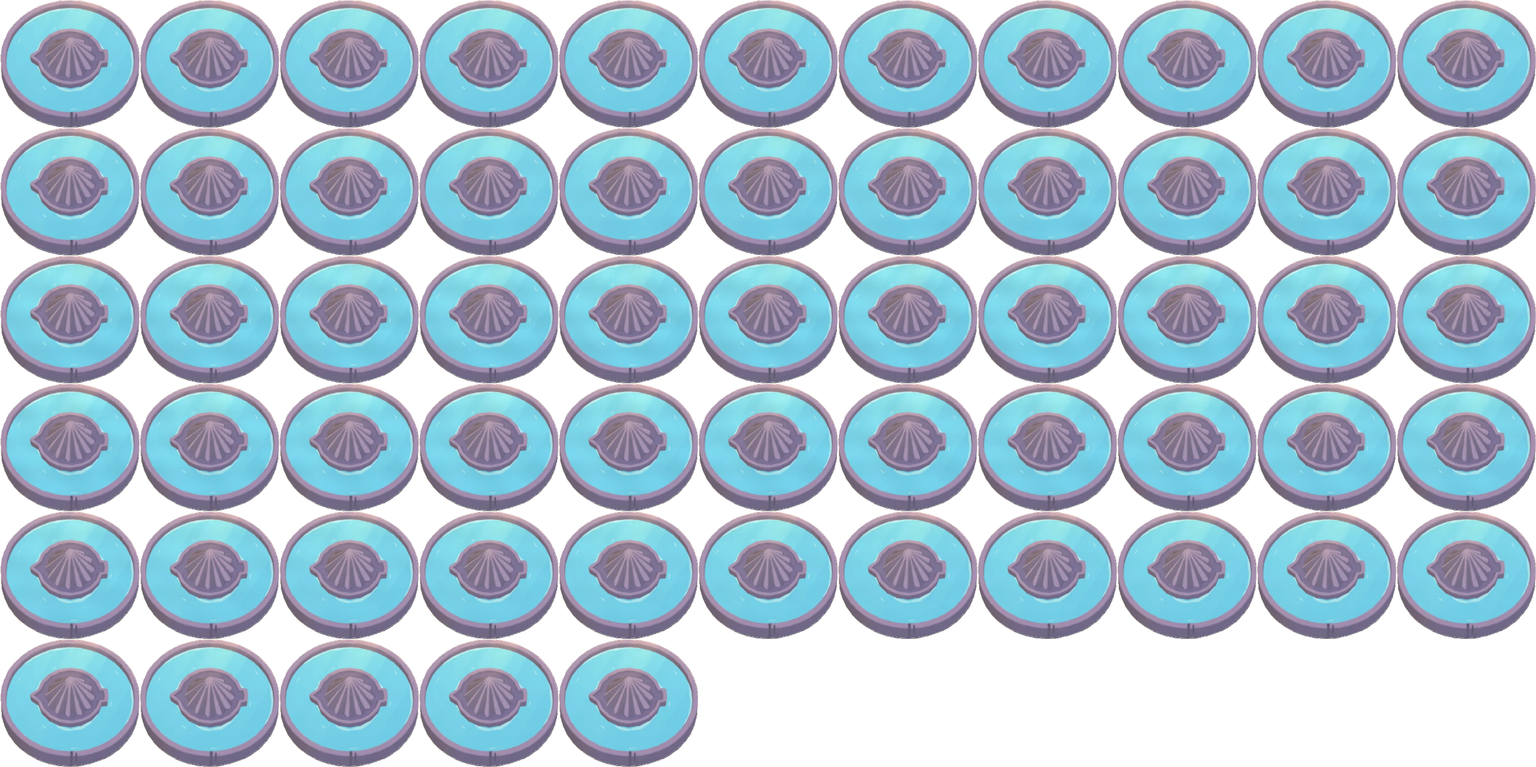
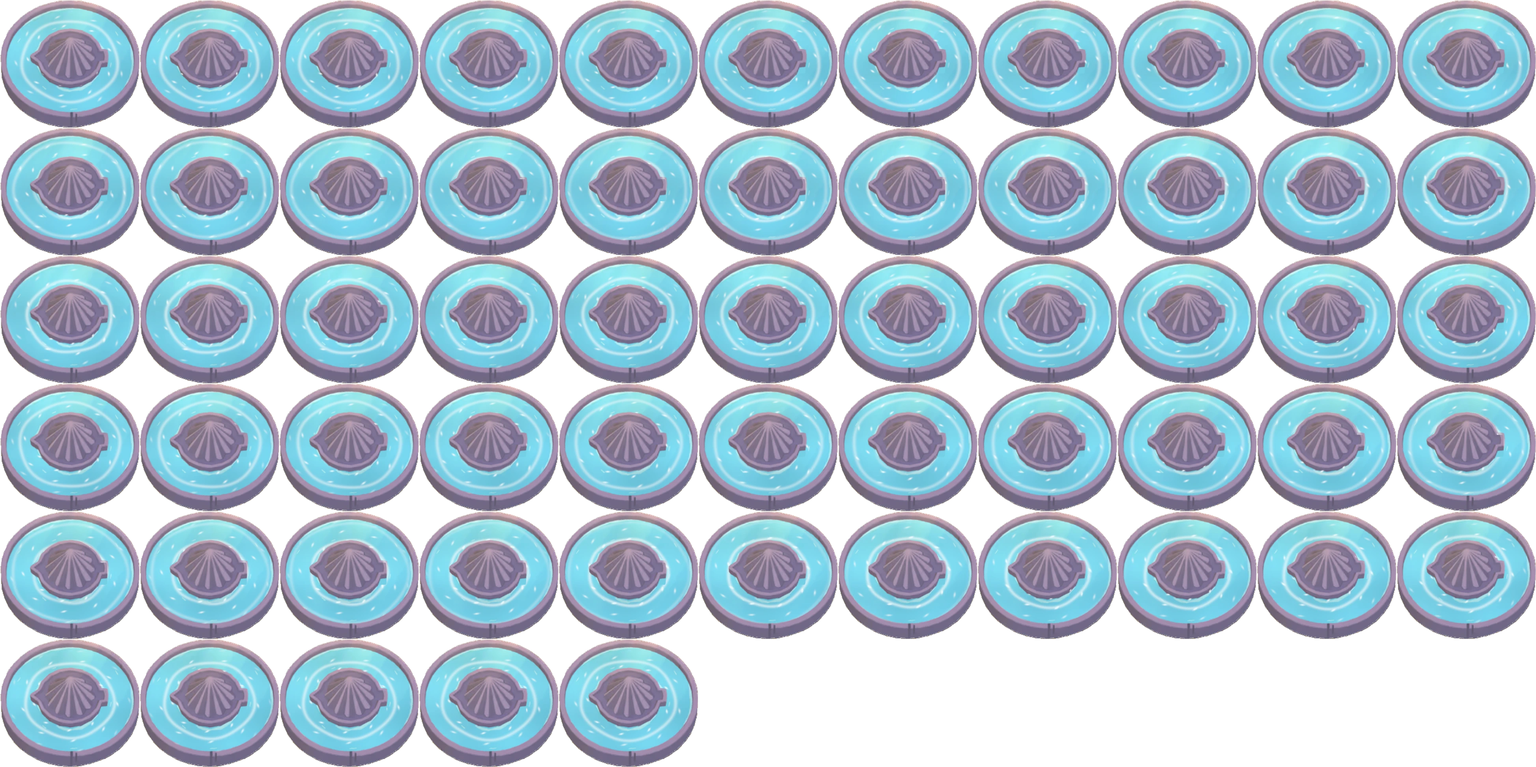
environ2 animation scripts: cartoon water ripples (rings, glints, light drift); render one group at a time
The fountain's frame sheet for the 2D renderer re-rendered with them.

diff --git a/art/reconstruction/environ2/blender/animate.py b/art/reconstruction/environ2/blender/animate.py
@@ -3,7 +3,8 @@ Each motion has the form  A * (sin(2 pi t / T + phase) - sin(phase))  : zero at 
  * the bunting's pennants swing on the rope, each a little behind the one before (a wave running along the rope); the rope sways
  * the banners' cloths ripple, more toward their free edge
  * the hex canopies sway gently on their legs; the round tree's leaf clumps breathe
- * the fountain's water shimmers (drifting bands of slightly brighter water)
+ * the fountain's water ripples: rings spreading from the juicer, white glints drifting across, a moving light pattern
+   (the only motion present at rest: the water is never still)
 The small fill pieces that complete each outline are attached to the part they belong to (the nearest one), so they move with it.
 Blender -b --python animate.py -- <plaza.blend> <out_dir> [frames]"""
 import sys, os, math
@@ -102,7 +103,8 @@ for i, (n, o) in enumerate(sorted((n, o) for n, o in objs.items() if n.startswit
         drive(o, 'scale', ax, wave(0.035, 0.45 * i))
     drive(o, 'location', 0, wave(0.05, 0.45 * i + 1.0))
 
-# ---- water: its painted surface shimmers (bands of slightly brighter water drifting across it) --------------------------------
+# ---- water: cartoon ripples over the painted water -- rings spreading out from the juicer, white glints drifting across, and a
+# moving light pattern. They loop (every phase advances by whole turns per loop) and sit on top of the painted surface.
 water = objs.get('FOUNTAIN_water')
 if water:
     m = water.data.materials[0].copy()
@@ -111,8 +113,13 @@ if water:
     tex = next(n for n in nt.nodes if n.type == 'TEX_IMAGE')
     em = next(n for n in nt.nodes if n.type == 'EMISSION')
     geo = nt.nodes.new('ShaderNodeNewGeometry')
-    sep = nt.nodes.new('ShaderNodeSeparateXYZ')
-    nt.links.new(geo.outputs['Position'], sep.inputs['Vector'])
+    V = world_verts(water)
+    centre = sum(V, Vector()) / len(V)
+    radius = max((v - centre).length for v in V)
+    rel = nt.nodes.new('ShaderNodeVectorMath')
+    rel.operation = 'SUBTRACT'
+    rel.inputs[1].default_value = tuple(centre)
+    nt.links.new(geo.outputs['Position'], rel.inputs[0])
 
     def val(expr):
         n = nt.nodes.new('ShaderNodeValue')
@@ -121,31 +128,57 @@ if water:
         d.driver.expression = expr
         return n.outputs[0]
 
-    def mth(op, a, b):
+    def mth(op, a, b=0.0, c=None):
         n = nt.nodes.new('ShaderNodeMath')
         n.operation = op
-        for i, x in enumerate((a, b)):
+        for i, x in enumerate((a, b) if c is None else (a, b, c)):
             if isinstance(x, (int, float)):
                 n.inputs[i].default_value = x
             else:
                 nt.links.new(x, n.inputs[i])
         return n.outputs[0]
-    amp = val(f"sin(pi * frame / {T}) ** 2")                       # 0 at the loop's start and end: the rest frame is exact
-    t = val(f"2 * pi * frame / {T}")
-    band = mth('SINE', mth('ADD', mth('ADD', mth('MULTIPLY', sep.outputs['X'], 1.3), mth('MULTIPLY', sep.outputs['Y'], 0.9)),
-                           mth('MULTIPLY', t, 2.0)), 0.0)
-    band2 = mth('SINE', mth('SUBTRACT', mth('MULTIPLY', sep.outputs['Y'], 2.1), t), 0.0)
-    gain = mth('ADD', mth('MULTIPLY', mth('MULTIPLY', mth('ADD', band, band2), amp), 0.045), 1.0)
-    mul = nt.nodes.new('ShaderNodeMix')
-    mul.data_type = 'RGBA'
-    mul.blend_type = 'MULTIPLY'
-    mul.inputs['Factor'].default_value = 1.0
-    nt.links.new(tex.outputs['Color'], mul.inputs['A'])
+    sep = nt.nodes.new('ShaderNodeSeparateXYZ')
+    nt.links.new(rel.outputs['Vector'], sep.inputs['Vector'])
+    dist = nt.nodes.new('ShaderNodeVectorMath')
+    dist.operation = 'LENGTH'
+    nt.links.new(rel.outputs['Vector'], dist.inputs[0])
+    r = dist.outputs['Value']
+    turn = val(f"2 * pi * frame / {T}")
+    # rings: thin bright bands travelling outward (3 rings across the basin, 2 passes per loop), wobbling a little
+    wob = mth('MULTIPLY', mth('SINE', mth('ADD', mth('MULTIPLY', mth('ARCTAN2', sep.outputs['Y'], sep.outputs['X']), 5.0),
+                                             mth('MULTIPLY', turn, 1.0))), 0.25)
+    ring_arg = mth('SUBTRACT', mth('ADD', mth('MULTIPLY', r, 2 * math.pi * 3 / radius), wob), mth('MULTIPLY', turn, 2.0))
+    ring = mth('POWER', mth('MULTIPLY', mth('ADD', mth('SINE', ring_arg), 1.0), 0.5), 14.0)        # sharp bands
+    inner = mth('SMOOTH_MAX', mth('SUBTRACT', r, radius * 0.48), 0.0, 0.3)                       # rings start outside the juicer
+    ring = mth('MULTIPLY', ring, mth('MINIMUM', mth('MULTIPLY', inner, 1.5), 1.0))
+    edge = mth('SUBTRACT', 1.0, mth('POWER', mth('DIVIDE', r, radius), 6.0))                     # fade out at the rim
+    ring = mth('MULTIPLY', mth('MULTIPLY', ring, mth('MAXIMUM', edge, 0.0)), 0.55)
+    # glints: small bright dashes drifting round the basin (a wave texture in angle and radius)
+    ang = mth('ARCTAN2', sep.outputs['Y'], sep.outputs['X'])
+    g_arg = mth('ADD', mth('ADD', mth('MULTIPLY', ang, 9.0), mth('MULTIPLY', r, 2.3)), turn)
+    g2 = mth('SINE', mth('SUBTRACT', mth('MULTIPLY', r, 3.1), mth('MULTIPLY', turn, 3.0)))
+    glint = mth('POWER', mth('MAXIMUM', mth('MULTIPLY', mth('SINE', g_arg), g2), 0.0), 18.0)
+    glint = mth('MULTIPLY', mth('MULTIPLY', glint, mth('MAXIMUM', edge, 0.0)), 0.9)
+    # light pattern: slow broad bright/dark drift
+    caus = mth('MULTIPLY', mth('ADD', mth('SINE', mth('ADD', mth('MULTIPLY', sep.outputs['X'], 0.9), turn)),
+                               mth('SINE', mth('SUBTRACT', mth('MULTIPLY', sep.outputs['Y'], 1.1), turn))), 0.06)
+    white = mth('MINIMUM', mth('ADD', ring, glint), 0.8)
+    lit = nt.nodes.new('ShaderNodeMix')
+    lit.data_type = 'RGBA'
+    lit.blend_type = 'MULTIPLY'
+    lit.inputs['Factor'].default_value = 1.0
+    nt.links.new(tex.outputs['Color'], lit.inputs['A'])
     gcol = nt.nodes.new('ShaderNodeCombineColor')
     for ch in ('Red', 'Green', 'Blue'):
-        nt.links.new(gain, gcol.inputs[ch])
-    nt.links.new(gcol.outputs['Color'], mul.inputs['B'])
-    nt.links.new(mul.outputs['Result'], em.inputs['Color'])
+        nt.links.new(mth('ADD', caus, 1.0), gcol.inputs[ch])
+    nt.links.new(gcol.outputs['Color'], lit.inputs['B'])
+    mix = nt.nodes.new('ShaderNodeMix')
+    mix.data_type = 'RGBA'
+    mix.blend_type = 'MIX'
+    nt.links.new(white, mix.inputs['Factor'])
+    nt.links.new(lit.outputs['Result'], mix.inputs['A'])
+    mix.inputs['B'].default_value = (0.92, 1.0, 1.0, 1.0)
+    nt.links.new(mix.outputs['Result'], em.inputs['Color'])
 
 # ---- fills follow the part they complete (attached last: moving a part's pivot must not drag them) --------------------------------------------------------------------------------
 parts = [o for n, o in objs.items() if 'FILL_fill' not in n and n != 'GROUND']

diff --git a/art/reconstruction/environ2/blender/render_moving.py b/art/reconstruction/environ2/blender/render_moving.py
@@ -42,7 +42,10 @@ for m in bpy.data.materials:
                 n.interpolation = 'Linear'
 step = sc.frame_end + 1
 everything = [o for o in sc.objects if o.type == 'MESH']
+ONLY = os.environ.get('ONLY_GROUPS')
 for key, prefixes in GROUPS.items():
+    if ONLY and key not in ONLY.split(','):
+        continue
     keep = members(prefixes)
     for o in everything:
         o.hide_render = o not in keep
